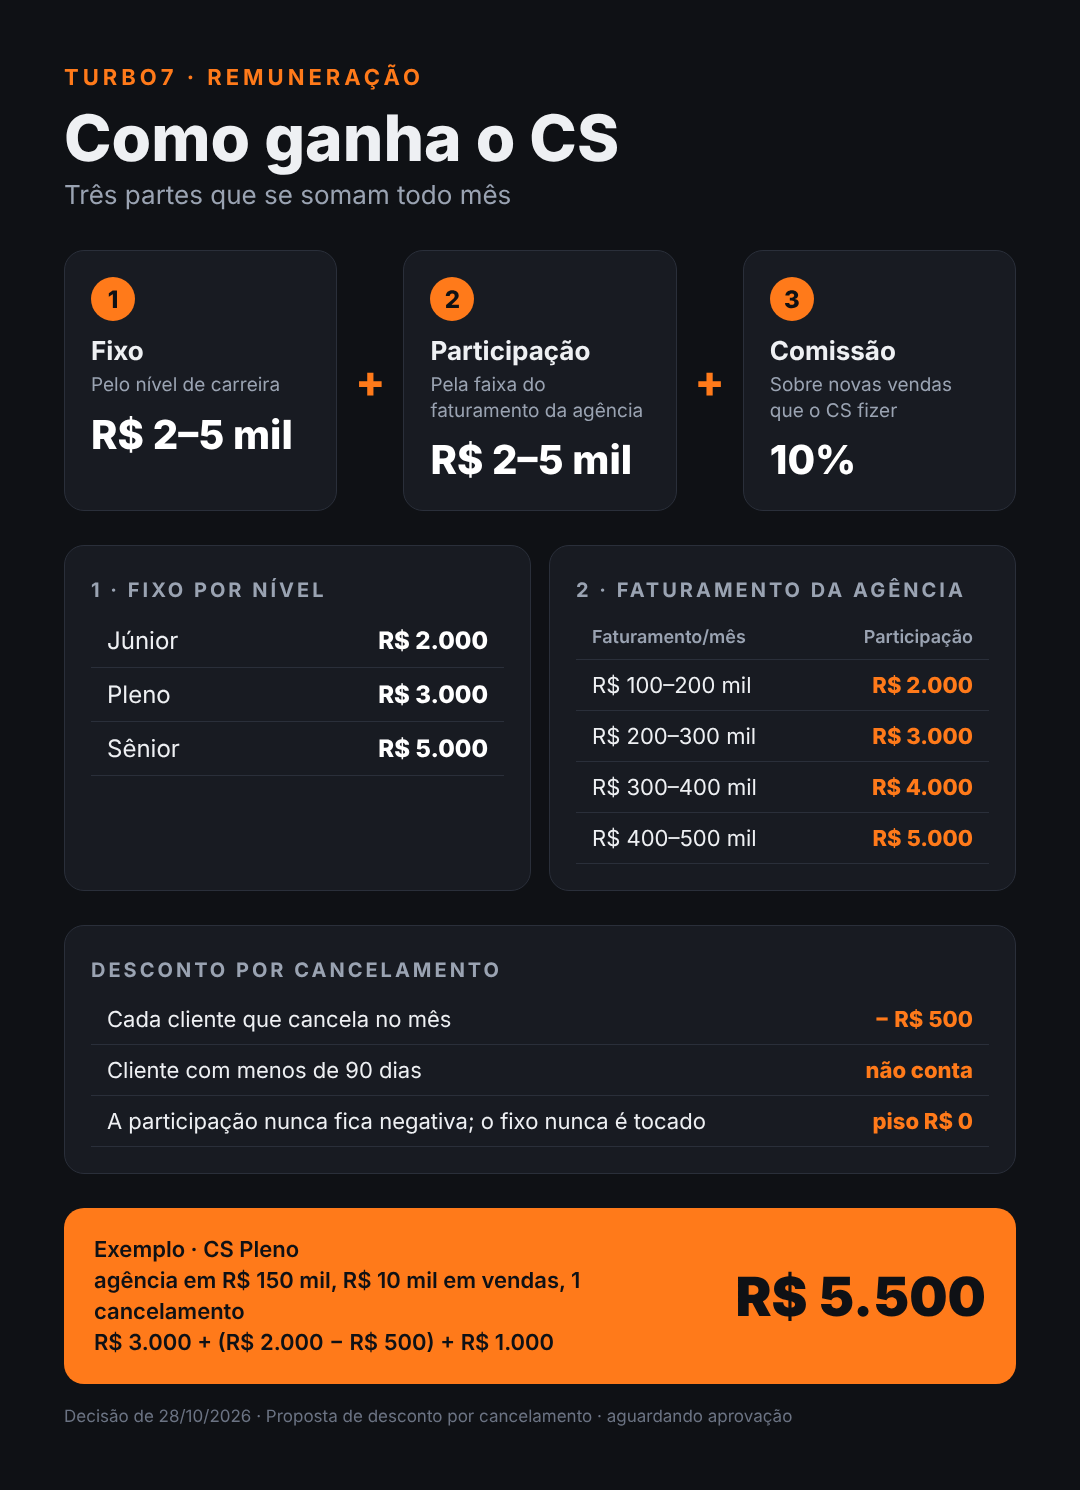
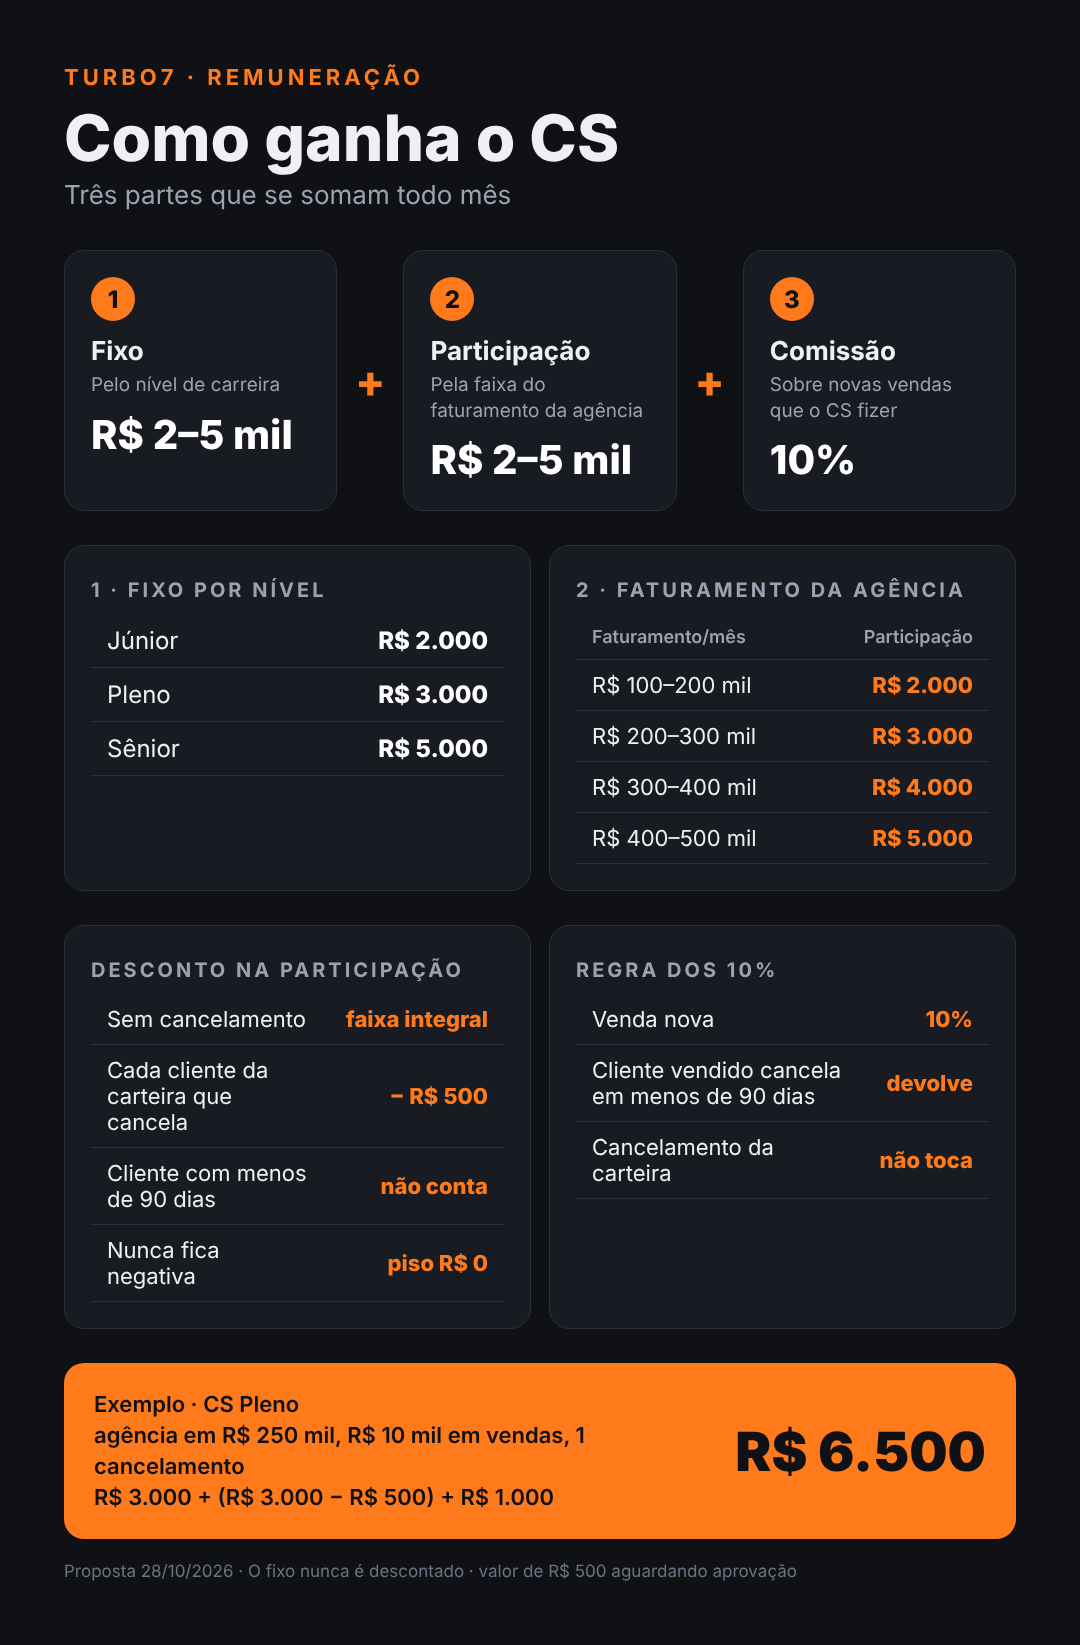
turbo7: imagem do CS com faixa integral, desconto na participacao e regra dos 10%
Claude-Session: https://claude.ai/code/session_01KYYUADMRM9FBPrDSj6jSzj

diff --git a/turbo7/cs.html b/turbo7/cs.html
@@ -37,6 +37,17 @@ td.v,th{white-space:nowrap}td.v{width:1%}.ex .r{white-space:nowrap;margin-left:2
   <tr><td>R$ 100–200 mil</td><td class="v">R$ 2.000</td></tr><tr><td>R$ 200–300 mil</td><td class="v">R$ 3.000</td></tr>
   <tr><td>R$ 300–400 mil</td><td class="v">R$ 4.000</td></tr><tr><td>R$ 400–500 mil</td><td class="v">R$ 5.000</td></tr></table></div>
 </div>
-<div class="row"><div class="card"><div class="sec">DESCONTO POR CANCELAMENTO</div><table><tr><td>Cada cliente que cancela no mês</td><td class="v">− R$ 500</td></tr><tr><td>Cliente com menos de 90 dias</td><td class="v">não conta</td></tr><tr><td>A participação nunca fica negativa; o fixo nunca é tocado</td><td class="v">piso R$ 0</td></tr></table></div></div><div class="ex"><div class="l">Exemplo · CS Pleno<br>agência em R$ 150 mil, R$ 10 mil em vendas, 1 cancelamento<br>R$ 3.000 + (R$ 2.000 − R$ 500) + R$ 1.000</div><div class="r">R$ 5.500</div></div>
-<div class="foot">Decisão de 28/10/2026 · Proposta de desconto por cancelamento · aguardando aprovação</div>
+<div class="row">
+ <div class="card"><div class="sec">DESCONTO NA PARTICIPAÇÃO</div><table>
+  <tr><td>Sem cancelamento</td><td class="v">faixa integral</td></tr>
+  <tr><td>Cada cliente da carteira que cancela</td><td class="v">− R$ 500</td></tr>
+  <tr><td>Cliente com menos de 90 dias</td><td class="v">não conta</td></tr>
+  <tr><td>Nunca fica negativa</td><td class="v">piso R$ 0</td></tr></table></div>
+ <div class="card"><div class="sec">REGRA DOS 10%</div><table>
+  <tr><td>Venda nova</td><td class="v">10%</td></tr>
+  <tr><td>Cliente vendido cancela em menos de 90 dias</td><td class="v">devolve</td></tr>
+  <tr><td>Cancelamento da carteira</td><td class="v">não toca</td></tr></table></div>
+</div>
+<div class="ex"><div class="l">Exemplo · CS Pleno<br>agência em R$ 250 mil, R$ 10 mil em vendas, 1 cancelamento<br>R$ 3.000 + (R$ 3.000 − R$ 500) + R$ 1.000</div><div class="r">R$ 6.500</div></div>
+<div class="foot">Proposta 28/10/2026 · O fixo nunca é descontado · valor de R$ 500 aguardando aprovação</div>
 </body></html>
